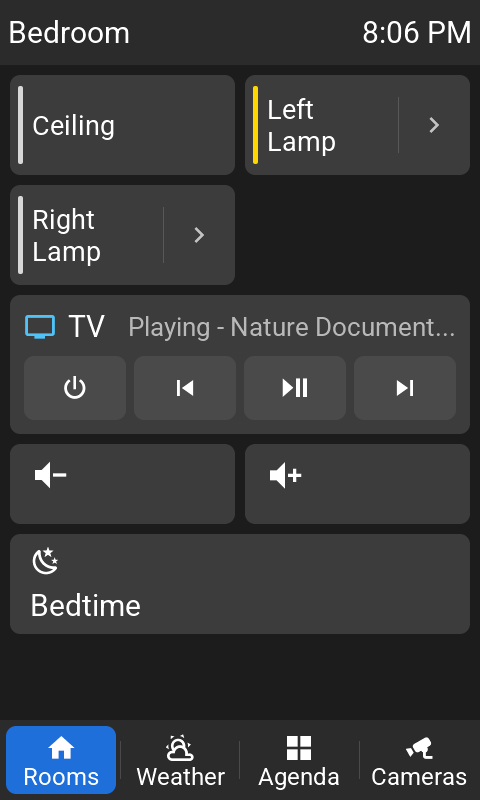
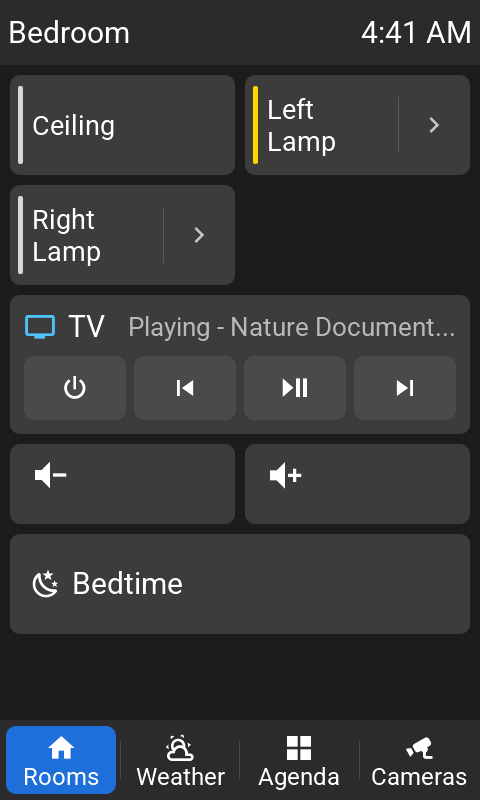
Thermostat shows the room temperature; script tiles fit any height
- Stepper: the line under the name takes a `detail` var and hides when
  empty, so a lone name sits centred. The thermostat shows "--°" there
  until Home Assistant sends the room temperature; number tiles hide it.
- Script tile: icon and name side by side, centred, so a short
  full-width tile no longer overlaps them.
- Demo seeds the thermostat (21° target, 20° room, heating); README adds
  the Living Room screenshot and refreshes Bedroom.

Changed region(s): [[0.0625, 0.6875, 0.375, 0.7812], [0.75, 0.0312, 0.9375, 0.0625]]

diff --git a/README.md b/README.md
@@ -6,13 +6,17 @@ Wall and bedside touch panels on cheap ESP32 displays, in plain ESPHome YAML: li
 room, weather, your calendars, cameras, and a photo screensaver, all talking straight to
 Home Assistant. No browser, no dashboard server.
 
-| Screensaver | Rooms | A room | Brightness |
-| --- | --- | --- | --- |
-| ![Screensaver](media/screenshots/screensaver.png) | ![Rooms](media/screenshots/rooms.png) | ![Bedroom](media/screenshots/room_bedroom.png) | ![Brightness pop-up](media/screenshots/brightness_popup.png) |
+| Screensaver | Rooms | A room |
+| --- | --- | --- |
+| ![Screensaver](media/screenshots/screensaver.png) | ![Rooms](media/screenshots/rooms.png) | ![Bedroom](media/screenshots/room_bedroom.png) |
 
-| Printers | Weather | Agenda | Settings |
-| --- | --- | --- | --- |
-| ![Office with 3D printers](media/screenshots/room_office.png) | ![Weather](media/screenshots/weather.png) | ![Agenda](media/screenshots/agenda.png) | ![Settings](media/screenshots/settings.png) |
+| Thermostat and TV | Brightness | Printers |
+| --- | --- | --- |
+| ![Living Room with a thermostat and TV](media/screenshots/room_living_room.png) | ![Brightness pop-up](media/screenshots/brightness_popup.png) | ![Office with 3D printers](media/screenshots/room_office.png) |
+
+| Weather | Agenda | Settings |
+| --- | --- | --- |
+| ![Weather](media/screenshots/weather.png) | ![Agenda](media/screenshots/agenda.png) | ![Settings](media/screenshots/settings.png) |
 
 *The demo house, rendered with `tools/snapshot.py`.*
 
